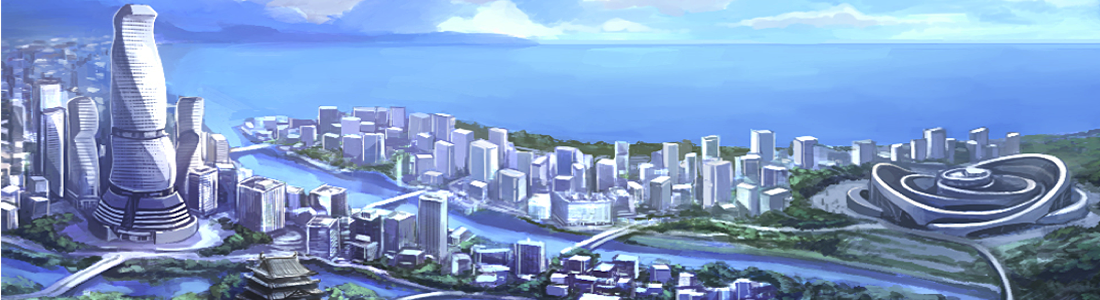
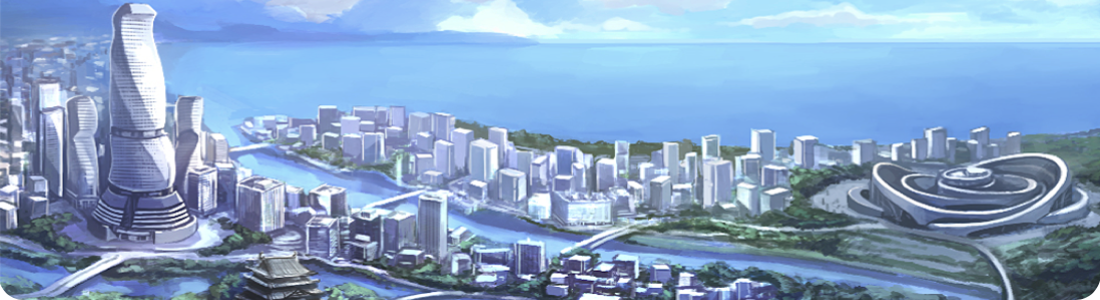
Add files via upload

diff --git a/index.html b/index.html
@@ -54,7 +54,7 @@ h1, h2, h3, h4, h5, h6 { text-align: center; }
 /*header { margin-top: 20px; }
 header img { border: 0px solid black; border-radius: 25px; }*/
 header img { border: 0px solid black; 
-    border-bottom-right-radius: 25px; border-bottom-left-radius: 25px; }
+    /*border-bottom-right-radius: 25px; border-bottom-left-radius: 25px;*/ }
 
 /*================= Navigation Bar =================*/
 
@@ -155,7 +155,14 @@ footer ul { list-style-type: none; }
 <body>
 
 <header class="lbs">
-    <h1 class="Hidden">Game Name</h1><img src="images/header-pc.png" alt="Logo" class="Large">
+    <h1 class="Hidden">Game Name</h1>
+    
+    <picture>
+        <source media="(max-width: 375px)" srcset="images/header-mobile.png">
+        <source media="(min-width: 376px)" srcset="images/header-pc.png">
+        <img src="images/header-pc.png" alt="Logo" class="Large">
+    </picture>
+
 </header>
 
 <nav>
@@ -187,7 +194,7 @@ footer ul { list-style-type: none; }
 
                 <p>Nota: O viewport de 375px e tamanho da fonte de texto de 20px da fonte '-webkit-standard' ficou o mínimo aceitável pro iPhone 8.</p> 
             
-                <p>Ok!a</p>
+                <p>Ok!+</p>
 
             </div>
 
@@ -203,8 +210,6 @@ footer ul { list-style-type: none; }
 
     </section>  
 
-            
-
     <section class="Gallery lb"> <h2 class="Hidden">Gallery</h2>
 
         <div class="Images-group">
@@ -214,44 +219,44 @@ footer ul { list-style-type: none; }
             <picture>
                 <source media="(max-width: 375px)" srcset="images/gallery-img-01-mobile.png">
                 <source media="(min-width: 376px)" srcset="images/gallery-img-01-pc.png">
-                <img src="images/gallery-img-01-pc.png" alt="Car">
+                <img src="images/gallery-img-01-pc.png" alt="">
             </picture>
 
             <picture>
                 <source media="(max-width: 375px)" srcset="images/gallery-img-02-mobile.png">
                 <source media="(min-width: 376px)" srcset="images/gallery-img-02-pc.png">
-                <img src="images/gallery-img-02-pc.png" alt="Car">
+                <img src="images/gallery-img-02-pc.png" alt="">
             </picture>
 
             <picture>
                 <source media="(max-width: 375px)" srcset="images/gallery-img-03-mobile.png">
                 <source media="(min-width: 376px)" srcset="images/gallery-img-03-pc.png">
-                <img src="images/gallery-img-03-pc.png" alt="Car">
+                <img src="images/gallery-img-03-pc.png" alt="">
             </picture>
 
             <picture>
                 <source media="(max-width: 375px)" srcset="images/gallery-img-04-mobile.png">
                 <source media="(min-width: 376px)" srcset="images/gallery-img-04-pc.png">
-                <img src="images/gallery-img-04-pc.png" alt="Car">
+                <img src="images/gallery-img-04-pc.png" alt="">
             </picture>
 
             <picture>
                 <source media="(max-width: 375px)" srcset="images/gallery-img-05-mobile.png">
                 <source media="(min-width: 376px)" srcset="images/gallery-img-05-pc.png">
-                <img src="images/gallery-img-05-pc.png" alt="Car">
+                <img src="images/gallery-img-05-pc.png" alt="">
             </picture>
 
             <picture>
                 <source media="(max-width: 375px)" srcset="images/gallery-img-06-mobile.png">
                 <source media="(min-width: 376px)" srcset="images/gallery-img-06-pc.png">
-                <img src="images/gallery-img-06-pc.png" alt="Car">
+                <img src="images/gallery-img-06-pc.png" alt="">
             </picture>
 
         </div>
     
     </section>
 
-    <section class="Gallery-not-responsible lb"> <h2 class="Hidden">Gallery</h2>
+    <!--<section class="Gallery-not-responsible lb"> <h2 class="Hidden">Gallery</h2>
 
         <div class="Images-group">
 
@@ -264,7 +269,7 @@ footer ul { list-style-type: none; }
 
         </div>
     
-    </section>
+    </section>-->
 
     <div class="Laterals-margins">
 
